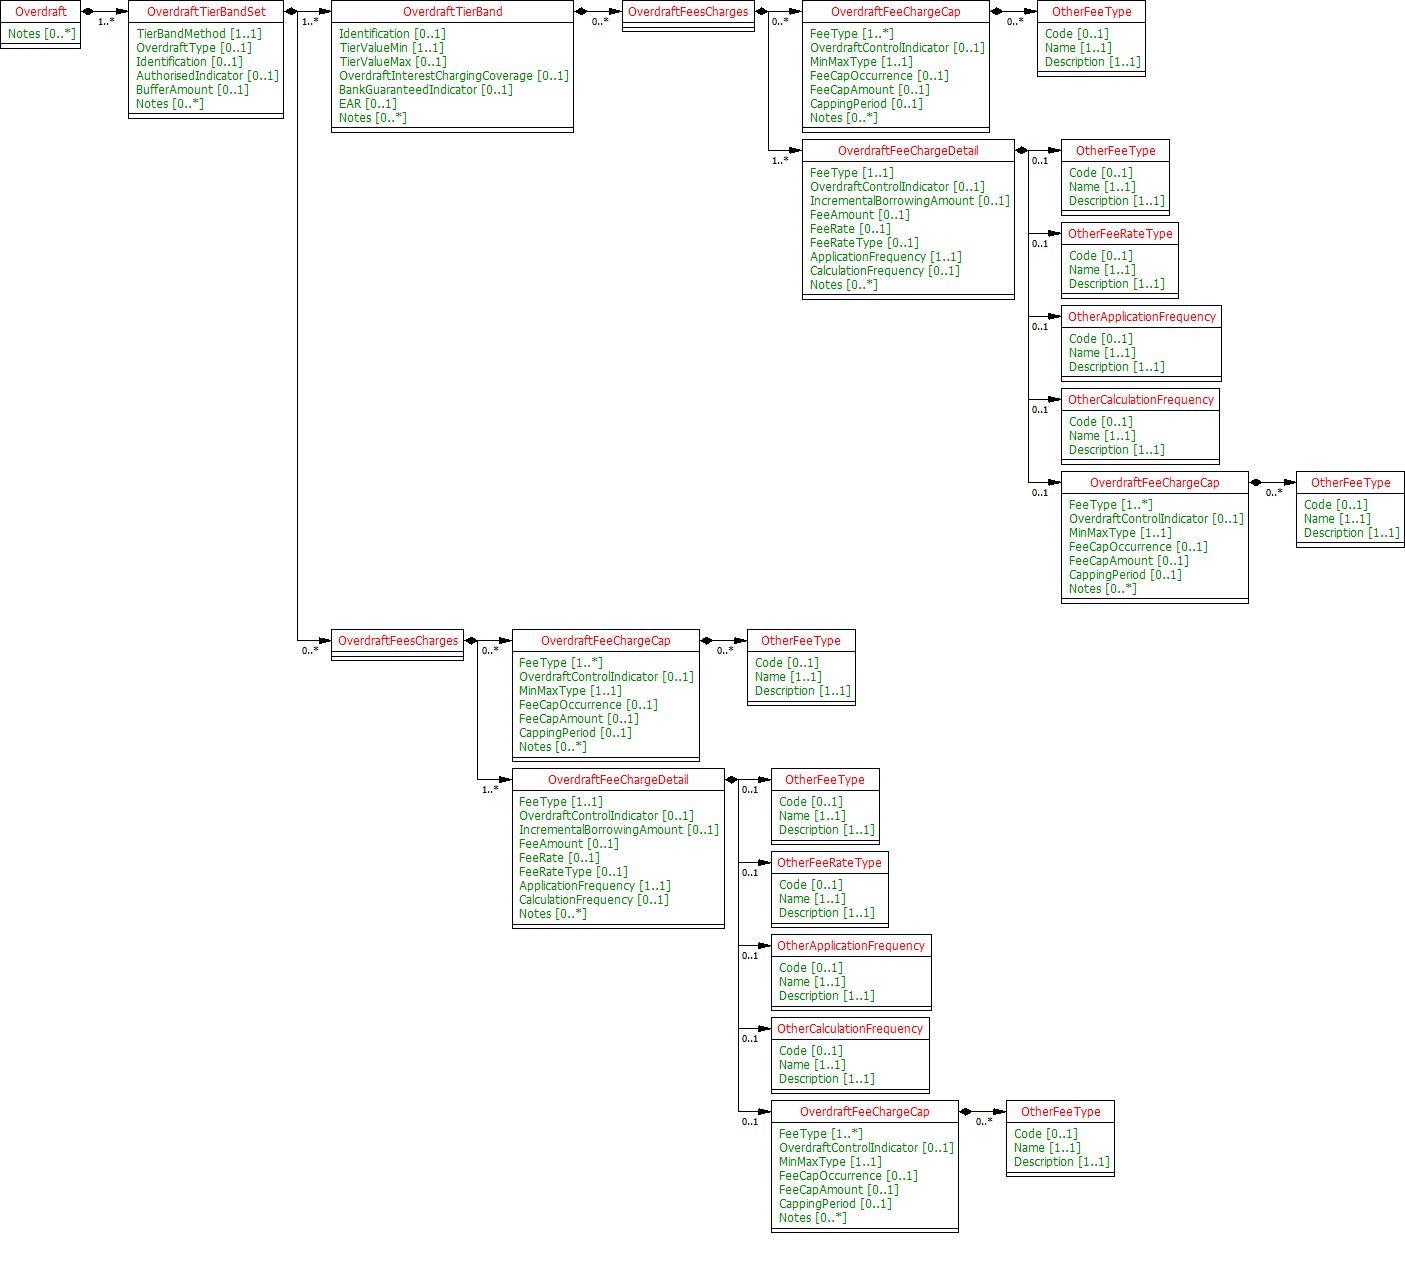
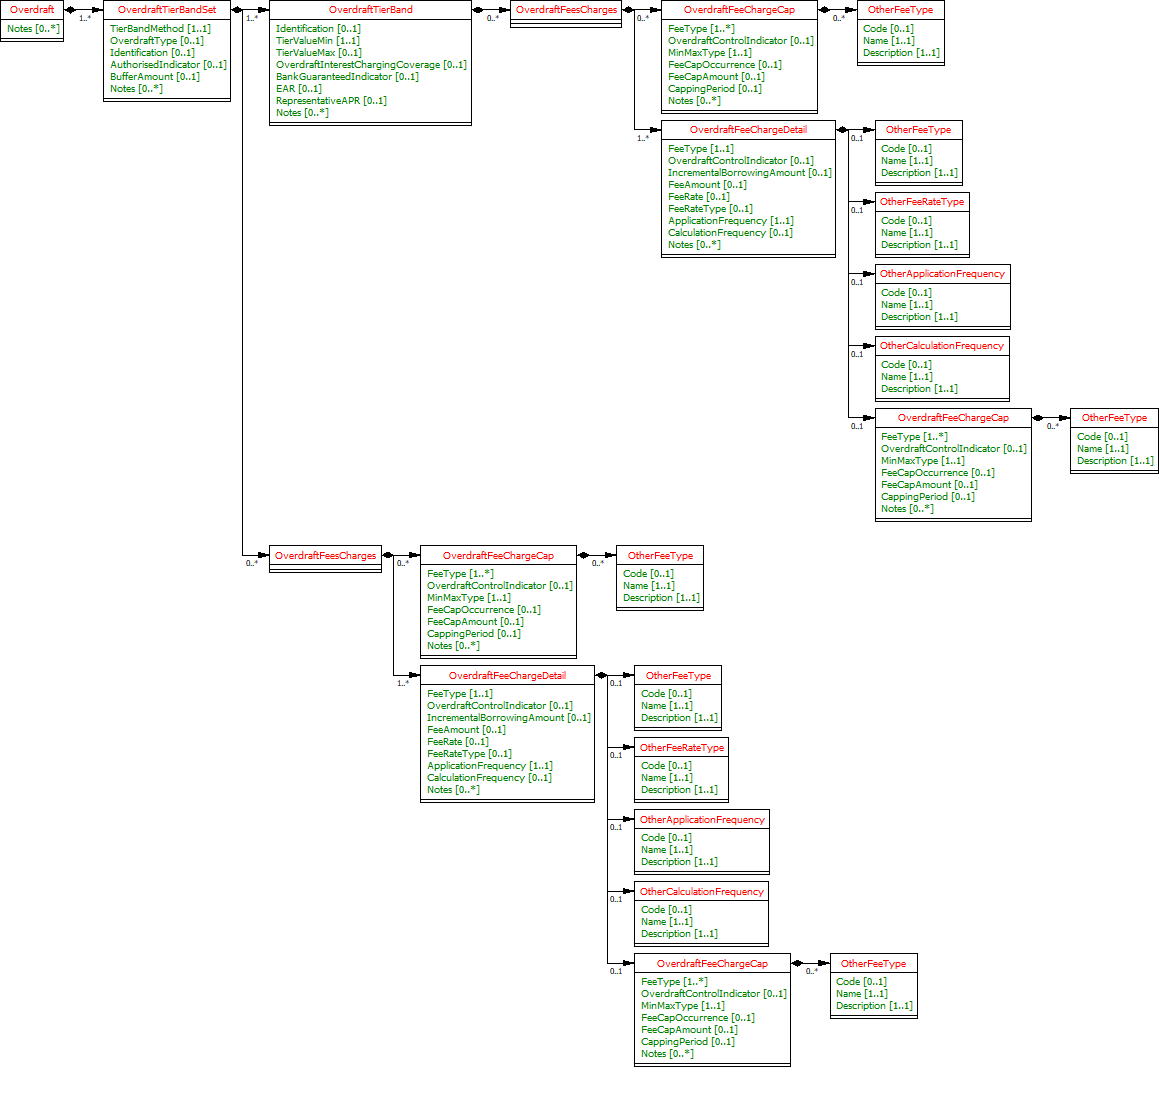
Added RepresentativeAPR in products endpoint specification for High Cost Credit changes

Changed region(s): [[0.2174, 0.4964, 0.8076, 0.9927], [0.4038, 0.0, 1.0, 0.4964], [0.0, 0.0, 0.4038, 0.1241]]

diff --git a/resources-and-data-models/aisp/pca-product-data-model.md b/resources-and-data-models/aisp/pca-product-data-model.md
@@ -124,11 +124,11 @@ Further analysis required:-
 * Other Fee Charges: Only Periodic Fee(service charge) has been included in the Code List.
 * We have taken Open Data PCA Segments for PCA Account Info as well.
 
-![ ainfopca.2.2.0.ClassDiagram.png ]( images/PCA/ainfopca.2.2.0.ClassDiagram.png )
+![ ainfopca.3.1.4.ClassDiagram.png ]( images/PCA/ainfopca.3.1.4.ClassDiagram.png )
 
 ##### Data Dictionary
 
-* [PCA Account Info Data Definition]( productdatafiles/ainfopca.v3.1.2.DD.xlsx )
+* [PCA Account Info Data Definition]( productdatafiles/ainfopca.v3.1.4.DD.xlsx )
 
 ### Data Payload - Enumerations
 

diff --git a/resources-and-data-models/aisp/bca-product-data-model.md b/resources-and-data-models/aisp/bca-product-data-model.md
@@ -135,11 +135,11 @@ Further analysis required:-
 * Other Fee Charges: Only Periodic Fee(service charge) has been included in the Code List.
 * We have taken Open Data BCA Segments for BCA Account Info as well.
 
-![ AINFOBCA.2.2.0.ClassDiagram.png ]( images/BCA/AINFOBCA.2.2.0.ClassDiagram.png )
+![ AINFOBCA.3.1.4.ClassDiagram.png ]( images/BCA/AINFOBCA.3.1.4.ClassDiagram.png )
 
 ### Data Dictionary
 
-* [BCA Account Info Data Definition](productdatafiles/ainfobca.v3.1.2.DD.xlsx )
+* [BCA Account Info Data Definition](productdatafiles/ainfobca.v3.1.4.DD.xlsx )
 
 ### Data Payload - Enumerations
 
